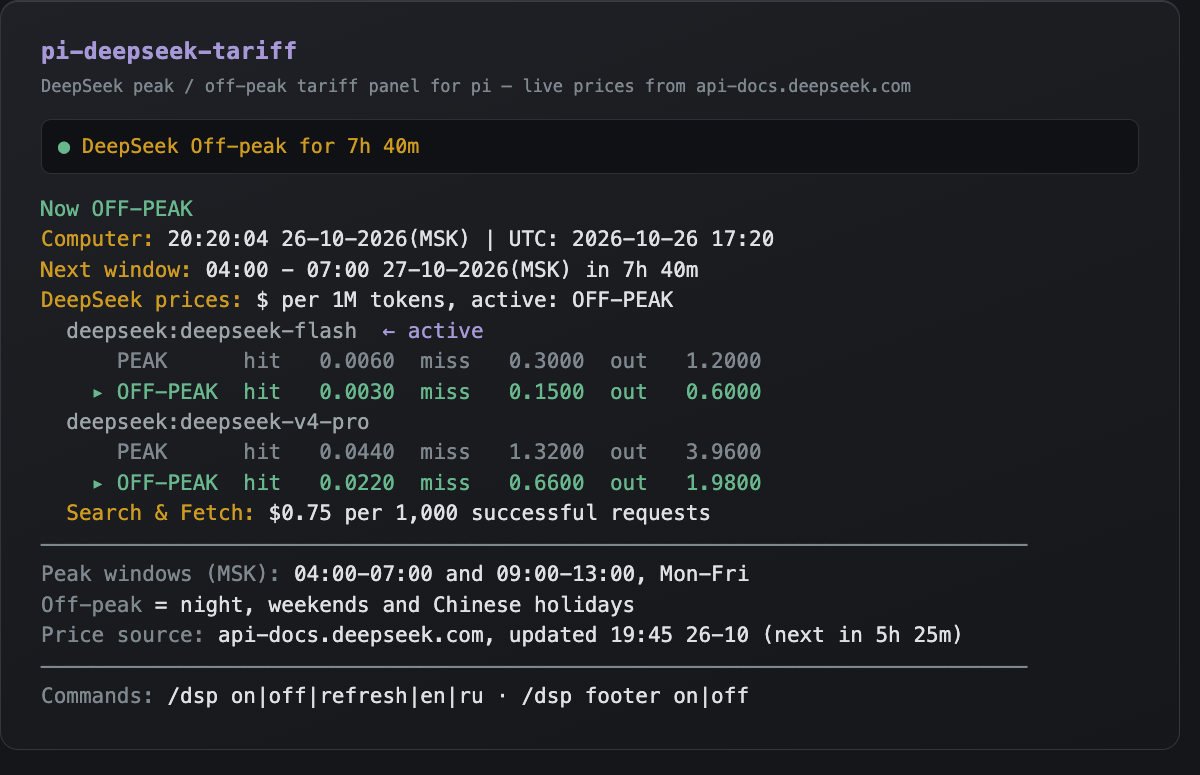
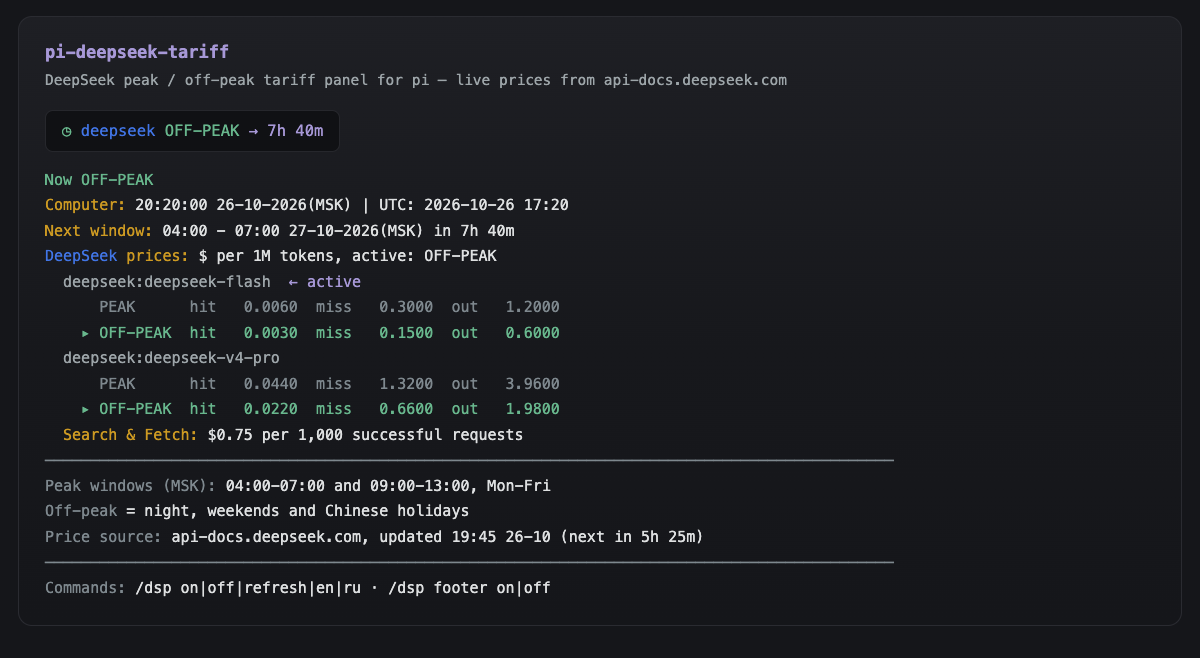
feat: rebrand the footer line and paint the panel brand blue
Footer: the status dot becomes a state-coloured clock (◷), the brand reads
lowercase deepseek in DeepSeek blue (#4175E6), PEAK / OFF-PEAK is written in
English in both languages, and "for" / "ещё" is replaced by an arrow. The
countdown uses the theme accent, so the line follows the theme instead of the
fixed warning token.

Panel: the DeepSeek word inside the prices label gets the same brand blue; the
rest of the label keeps the warning token. The panel body is otherwise
unchanged.

diff --git a/test/view.test.ts b/test/view.test.ts
@@ -64,31 +64,64 @@ test("requestPricingText returns undefined for no entries", () => {
 	assert.equal(requestPricingText([], "en"), undefined);
 });
 
+const PANEL_CONFIG = {
+	intervalMs: 30_000,
+	pricingTtlHours: 6,
+	alwaysShow: false,
+	footer: true,
+	models: ["deepseek"],
+	providerPrefix: "deepseek:",
+	holidays: new Set<string>(),
+};
+const PANEL_PRICING = {
+	models: { "deepseek-flash": { peak: { cacheHit: 0, cacheMiss: 0, output: 0 }, offPeak: { cacheHit: 0, cacheMiss: 0, output: 0 } } },
+	requests: [],
+	fetchedAt: 0,
+	source: "builtin" as const,
+};
+
 test("panel advertises the short /dsp command form", () => {
-	const theme = { fg: (_token: string, text: string) => text, bold: (text: string) => text } as never;
+	const theme = { fg: (_token: string, text: string) => text, style: (text: string) => text, bold: (text: string) => text } as never;
 	const lines = panelLines(theme, {
-		config: {
-			intervalMs: 30_000,
-			pricingTtlHours: 6,
-			alwaysShow: false,
-			footer: true,
-			models: ["deepseek"],
-			providerPrefix: "deepseek:",
-			holidays: new Set<string>(),
-		},
+		config: PANEL_CONFIG,
 		lang: "en",
 		currentModel: "deepseek:deepseek-flash",
-		pricing: {
-			models: { "deepseek-flash": { peak: { cacheHit: 0, cacheMiss: 0, output: 0 }, offPeak: { cacheHit: 0, cacheMiss: 0, output: 0 } } },
-			requests: [],
-			fetchedAt: 0,
-			source: "builtin",
-		},
+		pricing: PANEL_PRICING,
 		ttlMs: 6 * 3_600_000,
 	});
 	const hint = lines.at(-1) ?? "";
 	assert.match(hint, /\/dsp on\|off\|refresh\|en\|ru/);
 	assert.doesNotMatch(hint, /\/deepseek-peak on/);
+});
+
+test("price label paints only the product name in the brand colour", () => {
+	const styled: string[] = [];
+	const theme = {
+		fg: (token: string, text: string) => {
+			styled.push(`${token}:${text}`);
+			return text;
+		},
+		style: (text: string) => {
+			styled.push(`brand:${text}`);
+			return text;
+		},
+		bold: (text: string) => text,
+	} as never;
+	const options = { config: PANEL_CONFIG, currentModel: undefined, pricing: PANEL_PRICING, ttlMs: 6 * 3_600_000 };
+
+	for (const [lang, expected] of [
+		["en", "DeepSeek prices:"],
+		["ru", "Цены DeepSeek:"],
+	] as const) {
+		styled.length = 0;
+		const line = panelLines(theme, { ...options, lang }).find((item) => item.includes("$ per 1M tokens") || item.includes("$ за 1M токенов"));
+		assert.ok(line, `the price label must be rendered for ${lang}`);
+		assert.ok(line.startsWith(expected), `unexpected label: ${line}`);
+		assert.ok(styled.includes("brand:DeepSeek"), "the product name must be painted with the brand colour");
+		assert.ok(!styled.includes(`warning:${expected}`), "the whole label must not stay in the warning token");
+		// The colon keeps the label token, so the line still reads as one label.
+		assert.ok(styled.some((entry) => entry.startsWith("warning:") && entry.includes(":")));
+	}
 });
 
 /**
@@ -137,13 +170,14 @@ test("weekday labels shift with the zone", () => {
 	});
 });
 
-test("footer status uses a coloured dot and always-yellow text", async () => {
+test("footer status leads with a state-coloured clock and the lowercase brand", async () => {
 	const calls: Array<[string, string]> = [];
 	const theme = {
 		fg: (token: string, text: string) => {
 			calls.push([token, text]);
 			return `<${token}>${text}`;
 		},
+		style: (text: string) => `<brand>${text}</brand>`,
 		bold: (text: string) => text,
 	} as never;
 	const { statusText } = await import("../src/view.ts");
@@ -158,11 +192,23 @@ test("footer status uses a coloured dot and always-yellow text", async () => {
 	};
 	const line = statusText(theme, config, "ru", { models: {}, requests: [], fetchedAt: 0, source: "builtin" });
 
-	// Only the dot is coloured by state; the text always uses the warning token.
-	const dot = calls.find(([, text]) => text === "●");
-	assert.ok(dot, "the dot must be rendered");
-	assert.ok(dot[0] === "success" || dot[0] === "error", `unexpected dot token ${dot[0]}`);
-	const body = calls.find(([token]) => token === "warning");
-	assert.ok(body, "the text must use the warning token");
-	assert.match(body[1], /^DeepSeek (Обычный|Пиковый) ещё \d/);
+	// The clock replaced the dot and carries the state colour.
+	const clock = calls.find(([, text]) => text === "\u25F7");
+	assert.ok(clock, "the clock glyph must lead the line");
+	assert.ok(clock[0] === "success" || clock[0] === "error", `unexpected clock token ${clock[0]}`);
+
+	// The tariff is English in every language and matches the clock colour.
+	const label = calls.find(([, text]) => text === "PEAK" || text === "OFF-PEAK");
+	assert.ok(label, "the tariff must be written as PEAK / OFF-PEAK");
+	assert.equal(label[0], clock[0], "clock and tariff must share the state colour");
+
+	// The brand is lowercase and keeps the DeepSeek blue instead of a theme token.
+	assert.match(line, /<brand>deepseek<\/brand>/);
+
+	// "for" / "ещё" is replaced by an arrow, and the duration stays localized.
+	const rest = calls.find(([token]) => token === "accent");
+	assert.ok(rest, "the countdown must use the accent token");
+	assert.match(rest[1], /^\u2192 \d+[\u0447\u043c] /);
+	assert.doesNotMatch(line, /ещё|for /);
+	assert.doesNotMatch(line, /warning/);
 });

diff --git a/src/view.ts b/src/view.ts
@@ -1,11 +1,14 @@
 /**
  * Presentation: the footer status line and the panel body.
  *
- * Colors follow the pi theme: labels in the warning token, values in the text
- * token, active rows bold, inactive rows dim.
+ * Colors follow the pi theme: the footer clock and the tariff word share the
+ * state token (green off-peak, red peak), the countdown uses the accent token,
+ * and only the brand keeps a fixed colour. The panel below the editor keeps the
+ * warning/text pairing.
  */
 
 import type { Theme } from "@earendil-works/pi-coding-agent";
+import { parseColor } from "@earendil-works/pi-tui";
 import type { Config } from "./config.ts";
 import { localizeUnit, STRINGS, type Lang } from "./i18n.ts";
 import type { Pricing, RequestPricing } from "./pricing.ts";
@@ -25,6 +28,12 @@ import {
 
 /** Placeholder for a full-width rule; the renderer expands it to the panel width. */
 export const SEPARATOR = "\u0000rule";
+
+/** Footer clock: one cell wide, so the segment stays short on the shared status line. */
+const CLOCK = "\u25F7"; // ◷
+
+/** DeepSeek brand blue. Fixed in every theme: it is the product colour, not a theme role. */
+const BRAND_BLUE = parseColor("#4175E6");
 
 /** "Search & Fetch" value: a shared price is printed once. */
 export function requestPricingText(entries: RequestPricing[], lang: Lang): string | undefined {
@@ -54,9 +63,12 @@ export function requestPricingText(entries: RequestPricing[], lang: Lang): strin
 }
 
 /**
- * Compact footer line: a coloured dot plus always-yellow text, for example
- * "● DeepSeek Off-peak for 11h 59m" or "● DeepSeek Peak for 1h 40m".
- * Only the dot changes colour, so the line reads calmly in both states.
+ * Compact footer line: a state-coloured clock, the brand name in DeepSeek blue,
+ * the tariff in English and the countdown in the theme accent — for example
+ * "◷ deepseek OFF-PEAK → 11h 59m" or "◷ deepseek PEAK → 1h 40m".
+ *
+ * The clock carries the state colour, so the line stays legible without a
+ * separate status dot; the duration keeps the panel language units.
  */
 export function statusText(theme: Theme, config: Config, lang: Lang, pricing: Pricing): string {
 	void pricing;
@@ -64,10 +76,25 @@ export function statusText(theme: Theme, config: Config, lang: Lang, pricing: Pr
 	const now = new Date();
 	const peak = isPeak(now, config.holidays);
 	const next = nextTransition(now, config.holidays);
-	const dot = theme.fg(peak ? "error" : "success", "●");
-	const label = peak ? text.statusPeak : text.statusOffPeak;
+	const state = peak ? "error" : "success";
 	const duration = humanize(next.getTime() - now.getTime(), lang);
-	return `${dot} ${theme.fg("warning", `${text.statusBrand} ${label} ${text.statusFor(duration)}`)}`;
+	const clock = theme.fg(state, CLOCK);
+	const brand = theme.style(text.statusBrand, { fg: BRAND_BLUE });
+	const label = theme.fg(state, peak ? text.statusPeak : text.statusOffPeak);
+	return `${clock} ${brand} ${label} ${theme.fg("accent", text.statusFor(duration))}`;
+}
+
+/**
+ * Colour the product name inside a panel label without splitting the string in
+ * i18n: the label stays one translatable line, only the brand word is swapped to
+ * the DeepSeek blue. Falls back to `rest(label)` when the name is missing.
+ */
+function brandLabel(theme: Theme, label: string, brand: string, rest: (value: string) => string): string {
+	const at = label.indexOf(brand);
+	if (at < 0) return rest(label);
+	const head = rest(label.slice(0, at));
+	const tail = rest(label.slice(at + brand.length));
+	return `${head}${theme.style(brand, { fg: BRAND_BLUE })}${tail}`;
 }
 
 export function panelLines(
@@ -111,7 +138,7 @@ export function panelLines(
 	);
 
 	// 4. Model prices with the active tariff highlighted.
-	lines.push(`${yellow(text.prices)} ${white(text.pricesState(state))}`);
+	lines.push(`${brandLabel(theme, text.prices, text.pricesBrand, yellow)} ${white(text.pricesState(state))}`);
 	const value = (amount: number) => amount.toFixed(4).padStart(8);
 	for (const [name, model] of Object.entries(pricing.models)) {
 		const id = `${config.providerPrefix}${name}`;

diff --git a/src/i18n.ts b/src/i18n.ts
@@ -23,6 +23,8 @@ type Strings = {
 	nextIn: (duration: string) => string;
 	and: string;
 	prices: string;
+	/** The product name inside `prices`, rendered in the DeepSeek blue instead of the label token. */
+	pricesBrand: string;
 	pricesState: (state: string) => string;
 	activeModel: string;
 	peakWindows: (zone: string) => string;
@@ -34,6 +36,7 @@ type Strings = {
 	sourceBuiltin: string;
 	requestPricing: string;
 	commands: string;
+	/** Footer line — the state is always written in English (PEAK / OFF-PEAK), in every language. */
 	statusBrand: string;
 	statusPeak: string;
 	statusOffPeak: string;
@@ -53,6 +56,7 @@ export const STRINGS: Record<Lang, Strings> = {
 		nextIn: (duration) => `in ${duration}`,
 		and: "and",
 		prices: "DeepSeek prices:",
+		pricesBrand: "DeepSeek",
 		pricesState: (state) => `$ per 1M tokens, active: ${state}`,
 		activeModel: "← active",
 		peakWindows: (zone) => `Peak windows (${zone}):`,
@@ -64,10 +68,10 @@ export const STRINGS: Record<Lang, Strings> = {
 		sourceBuiltin: "built-in values (page unavailable)",
 		requestPricing: "Search & Fetch:",
 		commands: "Commands:",
-		statusBrand: "DeepSeek",
-		statusPeak: "Peak",
-		statusOffPeak: "Off-peak",
-		statusFor: (duration) => `for ${duration}`,
+		statusBrand: "deepseek",
+		statusPeak: "PEAK",
+		statusOffPeak: "OFF-PEAK",
+		statusFor: (duration) => `\u2192 ${duration}`,
 		locale: "en-GB",
 		hourUnit: "h",
 		minuteUnit: "m",
@@ -81,6 +85,7 @@ export const STRINGS: Record<Lang, Strings> = {
 		nextIn: (duration) => `через ${duration}`,
 		and: "и",
 		prices: "Цены DeepSeek:",
+		pricesBrand: "DeepSeek",
 		pricesState: (state) => `$ за 1M токенов, активен ${state}`,
 		activeModel: "← активна",
 		peakWindows: (zone) => `Окна peak (${zone}):`,
@@ -92,10 +97,10 @@ export const STRINGS: Record<Lang, Strings> = {
 		sourceBuiltin: "встроенные значения (страница недоступна)",
 		requestPricing: "Search & Fetch:",
 		commands: "Команды:",
-		statusBrand: "DeepSeek",
-		statusPeak: "Пиковый",
-		statusOffPeak: "Обычный",
-		statusFor: (duration) => `ещё ${duration}`,
+		statusBrand: "deepseek",
+		statusPeak: "PEAK",
+		statusOffPeak: "OFF-PEAK",
+		statusFor: (duration) => `\u2192 ${duration}`,
 		locale: "ru-RU",
 		hourUnit: "ч",
 		minuteUnit: "м",

diff --git a/README.md b/README.md
@@ -10,7 +10,7 @@ A [pi](https://pi.dev) extension that shows the current **DeepSeek API tariff wi
 DeepSeek charges double during peak hours, so knowing the current window is worth real money.
 
 ```
-● DeepSeek Off-peak for 11h 59m          ← footer line, always visible
+◷ deepseek OFF-PEAK → 11h 59m          ← footer line, always visible
 
 Now OFF-PEAK
 Computer: 14:43:52 26-10-2026(MSK) | UTC: 2026-10-26 11:43
@@ -38,7 +38,7 @@ Commands: /dsp on|off|refresh|en|ru · /dsp footer on|off
 pi install npm:pi-deepseek-tariff
 
 # from git: tags mirror the npm versions, so pin whichever you want
-pi install git:github.com/valderan/pi-deepseek-tariff@v0.3.0
+pi install git:github.com/valderan/pi-deepseek-tariff@v0.3.3
 
 # local checkout, for development
 git clone git@github.com:valderan/pi-deepseek-tariff.git
@@ -66,14 +66,14 @@ Type `/dsp ` and press Tab: the arguments above are offered as completions, with
 
 ## What it does
 
-- **Footer line** — one compact status line: `● DeepSeek Off-peak for 11h 59m`, or `● DeepSeek Peak for 1h 40m` during peak. The text is always yellow and only the dot changes colour — green for off-peak, red for peak. Shown only while a DeepSeek model is active; `/dsp footer off` hides it for good.
+- **Footer line** — one compact status line: `◷ deepseek OFF-PEAK → 11h 59m`, or `◷ deepseek PEAK → 1h 40m` during peak. The clock glyph leads the line and takes the state colour — green for off-peak, red for peak — and the tariff word next to it is coloured the same way. The brand is written lowercase in DeepSeek blue (`#4175E6`), the countdown uses the theme accent. Shown only while a DeepSeek model is active; `/dsp footer off` hides it for good.
 
-  Russian looks like `● DeepSeek Обычный ещё 11ч 59м` / `● DeepSeek Пиковый ещё 1ч 40м`.
+  The tariff is spelled `PEAK` / `OFF-PEAK` in English regardless of the panel language; only the countdown units are localized, so Russian reads `◷ deepseek OFF-PEAK → 11ч 59м`.
 
   Pi renders every extension status on a single footer line, joined alphabetically, so the segment is kept short.
 - **Peak rules** — DeepSeek defines peak as `01:00-04:00` and `06:00-10:00` **UTC, Monday to Friday**; weekends and Chinese public holidays are off-peak all day.
 - **Local time everywhere** — the UTC clock comes from the machine clock, so peak windows, weekday labels and countdowns are rendered in *your* zone (`(MSK)`, `(UTC-04:00)`, …). Weekday labels shift with the zone: at UTC−4 the windows land on Sun–Thu.
-- **Prices** — parsed from `api-docs.deepseek.com/quick_start/pricing/`: cache hit, cache miss and output per model, plus the Search & Fetch request rates. The tariff in effect is highlighted.
+- **Prices** — parsed from `api-docs.deepseek.com/quick_start/pricing/`: cache hit, cache miss and output per model, plus the Search & Fetch request rates. The tariff in effect is highlighted, and the `DeepSeek` word in the `DeepSeek prices:` label keeps the same brand blue as the footer.
 - **Caching** — the page is parsed at most once per `pricingTtlHours` (default 6), and the result is cached on disk, so restarts stay offline. `PI_OFFLINE` disables network access entirely and the panel falls back to built-in values.
 
 ## Configuration
@@ -136,11 +136,11 @@ the commit whose `package.json` says `X.Y.Z`, and npm publishes that same versio
 
 ```bash
 # 1. bump package.json, add a CHANGELOG entry, commit
-npm version 0.3.2 --no-git-tag-version     # or edit by hand
-git commit -am "chore: release 0.3.2"
+npm version 0.3.3 --no-git-tag-version     # or edit by hand
+git commit -am "chore: release 0.3.3"
 
 # 2. tag the release commit and push
-git tag -a v0.3.2 -m v0.3.2
+git tag -a v0.3.3 -m v0.3.3
 git push origin main --tags
 
 # 3. publish the tag to npm (2FA prompt, or --otp=123456)
@@ -151,7 +151,7 @@ npm publish --access public
 Check the result:
 
 ```bash
-npm view pi-deepseek-tariff dist-tags    # { latest: '0.3.2' }
+npm view pi-deepseek-tariff dist-tags    # { latest: '0.3.3' }
 npm view pi-deepseek-tariff versions
 ```
 
@@ -159,7 +159,7 @@ npm view pi-deepseek-tariff versions
 `NPM_TOKEN` secret is configured; with trusted publishing enabled on npmjs.com the
 token is not needed at all and the build is signed with provenance.
 
-Tags are pinnable with `pi install git:…@v0.3.2`. Published versions show up in the
+Tags are pinnable with `pi install git:…@v0.3.3`. Published versions show up in the
 [pi package gallery](https://pi.dev/packages) through the `pi-package` keyword.
 
 ## Changelog

diff --git a/CHANGELOG.md b/CHANGELOG.md
@@ -7,6 +7,24 @@ always point at the commit whose `package.json` declares the same version.
 
 ## [Unreleased]
 
+## [0.3.3] - 2026-11-02
+
+### Changed
+
+- Footer line redesigned: the status dot is replaced by a clock glyph `◷`, and the
+  brand is now lowercase `deepseek` in DeepSeek blue (`#4175E6`). The clock and the
+  tariff word share the state colour (green `success` off-peak, red `error` peak),
+  the countdown uses the theme accent, and the rest of the line follows the theme
+  instead of the always-yellow `warning` token.
+- Footer text: `for` / `ещё` is replaced by an arrow, so the line reads
+  `◷ deepseek OFF-PEAK → 11h 59m` / `◷ deepseek OFF-PEAK → 11ч 59м`.
+- `PEAK` / `OFF-PEAK` is written in English in both languages; the localized
+  `Пиковый` / `Обычный` labels are gone. The countdown units stay localized, and the
+  panel body is unchanged.
+- Panel: the `DeepSeek` word in the `DeepSeek prices:` label (and `Цены DeepSeek:`)
+  is painted in the same DeepSeek blue (`#4175E6`) as the footer brand; the rest of
+  the label keeps the warning token.
+
 ## [0.3.2] - 2026-10-30
 
 ### Added
